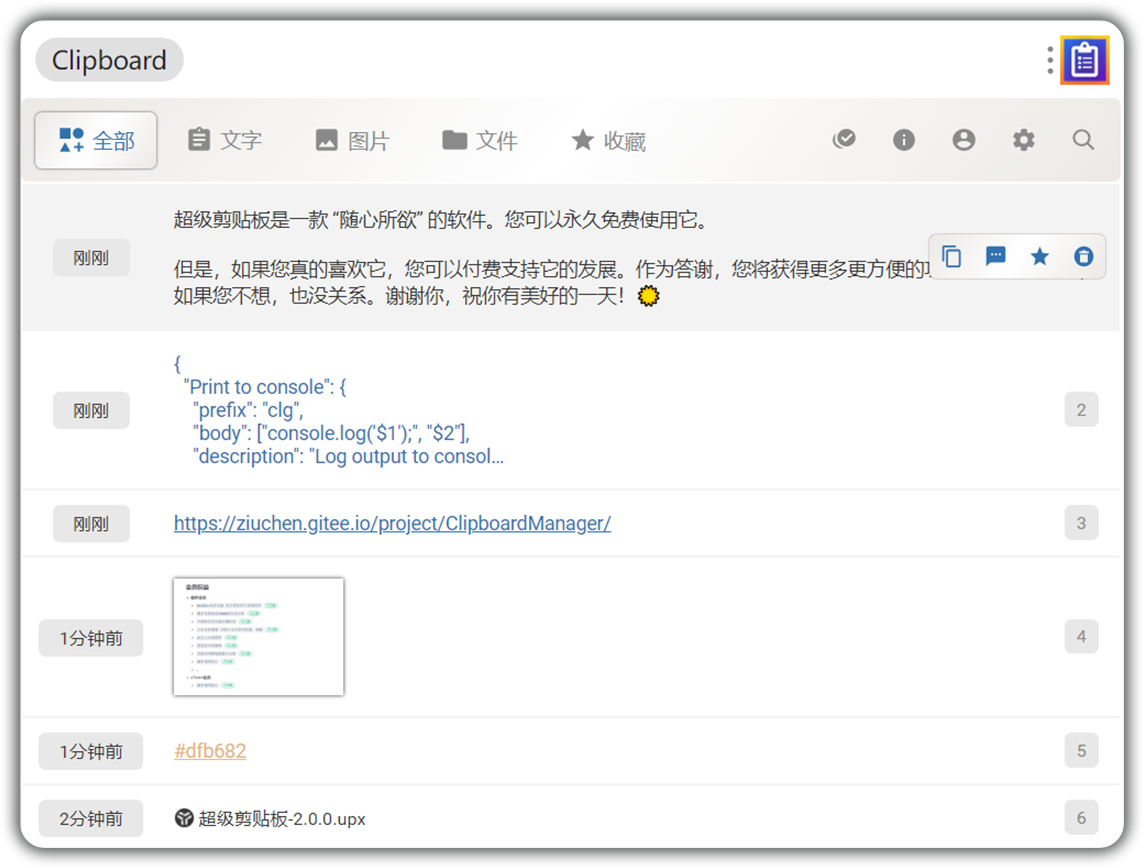
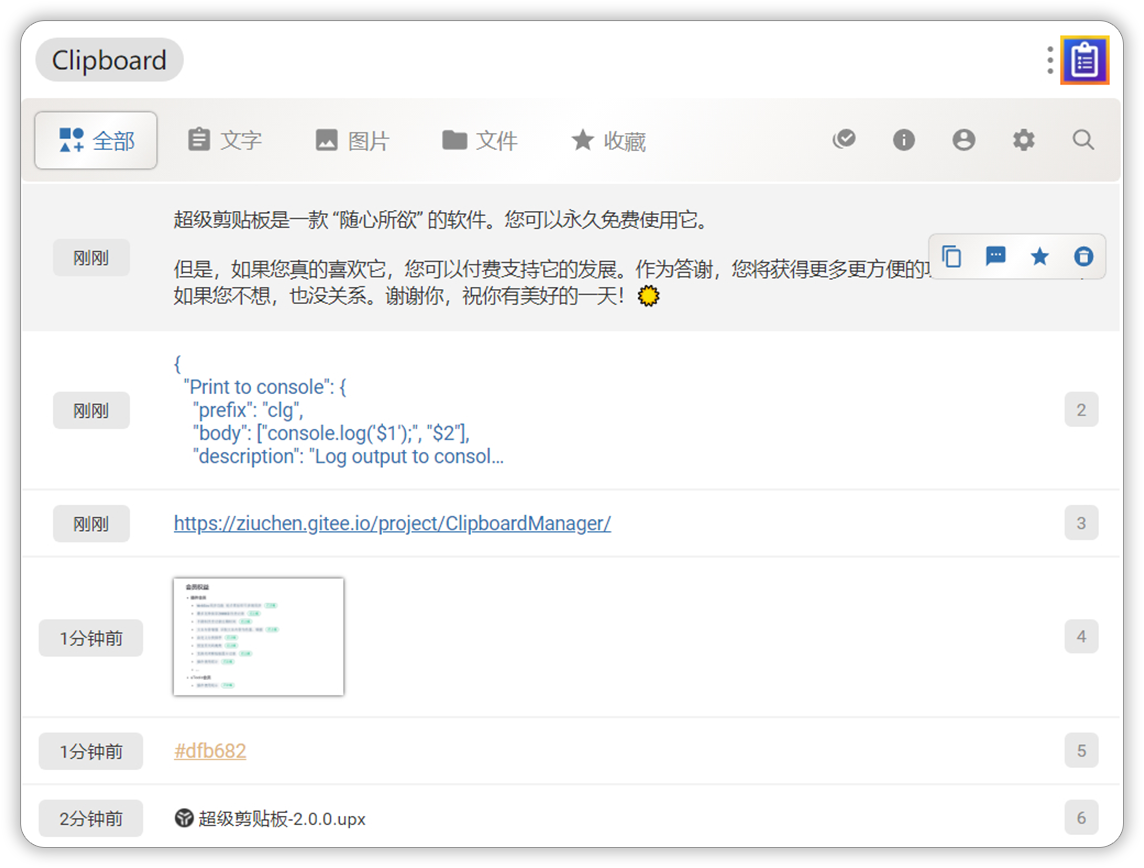
docs: CM文档图片更新 调整描边样式

Changed region(s): [[0.0, 0.0, 1.0, 0.9954]]

diff --git a/docs/project/ClipboardManager/vip/index.md b/docs/project/ClipboardManager/vip/index.md
@@ -34,8 +34,6 @@
 
 购买后可使用会员功能，不购买不影响基本功能的使用，希望大家多多理解，按需购买
 
-如果你在此前赞赏过`超级剪贴板`，可以在购买会员后添加[反馈QQ群](https://jq.qq.com/?_wv=1027&k=fURjGVJr)联系我，将`赞赏时间 赞赏支付截图 购买时间 插件会员截图`发送给我，不论赞赏金额多少，我将全额退款
-
 ## WebDav同步功能
 
 插件会员支持通过WebDav同步剪贴板数据
